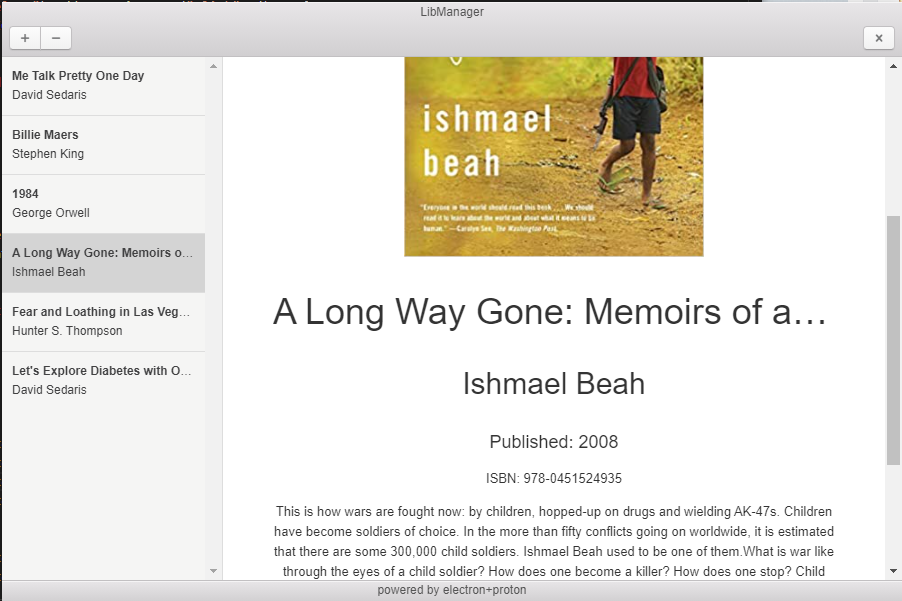
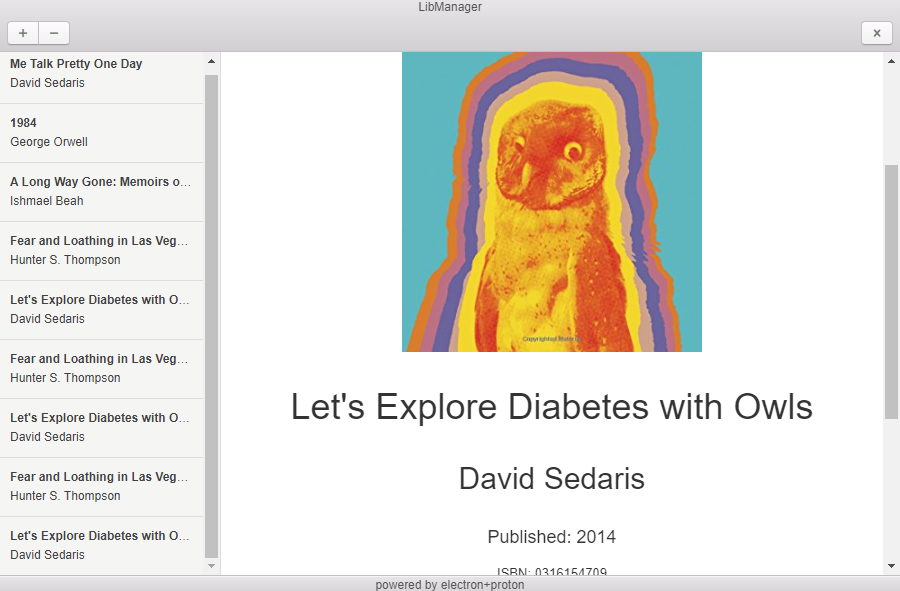
added AddBook logic

diff --git a/app/main.js b/app/main.js
@@ -5,6 +5,7 @@ const { app, BrowserWindow, ipcMain } = require('electron');
 
 
 var win = null;
+var addWin = null;
 
 function createWindow () {
   win = new BrowserWindow({
@@ -27,12 +28,15 @@ function createWindow () {
 
 app.whenReady().then(() => {
   createWindow();
+  
 })
 
 
 app.on('window-all-closed', function () {
   if (process.platform !== 'darwin') app.quit();
 });
+
+
 
 ipcMain.handle("getData", async (event, args) => {
   let data = JSON.parse(fs.readFileSync(path.join(__dirname, 'data.json'),'utf8'));
@@ -58,3 +62,49 @@ ipcMain.handle("delete", async (event, id) => {
 function saveData(data) {
   fs.writeFileSync(path.join(__dirname, 'data.json'), JSON.stringify(data));
 }
+
+
+
+
+
+
+
+
+ipcMain.handle("addWindow", async (event, args) => {
+  addWin = new BrowserWindow({
+    width: 400,
+    height: 700,
+    autoHideMenuBar: true,
+    resizable: false,
+    frame: false,
+    contextIsolation: true,
+    enableRemoteModule: false,
+    nodeIntegration: false,
+    webPreferences: {
+      preload: path.join(__dirname, 'add_preload.js'),
+
+    }
+  });
+  addWin.loadFile(path.join(__dirname, 'add.html'));
+
+  addWin.on('closed', () => {
+    console.log("closing");
+    addWin = null;
+  });
+
+  ipcMain.handle("addBook", async (event, book) => {
+    console.log(book);
+    let books = JSON.parse(fs.readFileSync(path.join(__dirname, 'data.json'),'utf8'));
+    books.push(book);
+    saveData(books);
+    console.log("closing");
+    addWin.close();
+    addWin = null;
+  });
+  ipcMain.handle("exitBook", async (event, args) => {
+    console.log("closing");
+    addWin.destroy();
+    addWin = null;
+  });
+
+});

diff --git a/app/add.html b/app/add.html
@@ -26,23 +26,23 @@
         <form class="libmanager-form">
           <div class="form-group">
             <label>Name</label>
-            <input type="text" class="form-control" placeholder="...">
+            <input type="text" class="form-control" placeholder="..." id="name">
           </div>
           <div class="form-group">
             <label>Author</label>
-            <input type="text" class="form-control" placeholder="...">
+            <input type="text" class="form-control" placeholder="..." id="author">
           </div>
           <div class="form-group">
             <label>Publishing Date</label>
-            <input type="text" class="form-control" placeholder="...">
+            <input type="text" class="form-control" placeholder="..." id="date">
           </div>
           <div class="form-group">
             <label>ISBN</label>
-            <input type="text" class="form-control" placeholder="...">
+            <input type="text" class="form-control" placeholder="..." id="ISBN">
           </div>
           <div class="form-group">
             <label>Description</label>
-            <textarea class="form-control" rows="7"></textarea>
+            <textarea class="form-control" rows="7" id="description"></textarea>
           </div>
           <div class="form-actions">
             <button type="submit" class="btn btn-form btn-default" id="cancel">Cancel</button>
@@ -56,5 +56,5 @@
     </div>
   </body>
   <!-- Javascript -->
-  <script src="./renderer2.js" charset="utf-8"></script>
+  <script src="./add_renderer.js" charset="utf-8"></script>
 </html>

diff --git a/app/add_renderer.js b/app/add_renderer.js
@@ -1,0 +1,30 @@
+
+
+
+var name        = document.getElementById("name");
+var date        = document.getElementById("date");
+var ISBN        = document.getElementById("ISBN");
+var author      = document.getElementById("author");
+var description = document.getElementById("description");
+
+
+window.onload = () => {
+  document.getElementById("finish").addEventListener("click", () => {
+    var book = {
+      cover: '5.jpg',
+      name: name.value,
+      date: date.value,
+      ISBN: ISBN.value,
+      author: author.value,
+      description: description.value
+    }
+    window.addApi.addBookApi(book);
+  });
+  document.getElementById("cancel").addEventListener("click", () => {
+    window.addApi.exitBookApi();
+  });
+  document.getElementById("exit").addEventListener("click", () => {
+    window.addApi.exitBookApi();
+  });
+};
+

diff --git a/app/renderer.js b/app/renderer.js
@@ -10,6 +10,7 @@ window.onload = () => {
     updateBookList();
   });
   document.getElementById("add").addEventListener("click", () => {
+    window.api.addBookWindow();
   })
   updateBookList()
 };
@@ -74,6 +75,7 @@ function previewBook(id, selected) {
   document.getElementById("ISBN").innerHTML        = "ISBN: ".concat(book.ISBN);
   document.getElementById("author").innerHTML      = book.author;
   document.getElementById("description").innerHTML = book.description;
+  updateBookList();
 }
 
 function getBook(books, id) {

diff --git a/app/preload.js b/app/preload.js
@@ -6,6 +6,7 @@ contextBridge.exposeInMainWorld("api", {
   saveDataAPI: (data) => ipcRenderer.invoke("saveData", data),
   exitAPI: (args) => ipcRenderer.invoke("exit", args),
   deleteAPI: (id) => ipcRenderer.invoke("delete", id),
+  addBookWindow: (id) => ipcRenderer.invoke("addWindow", id),
 });
 
 window.addEventListener('DOMContentLoaded', () => {

diff --git a/app/add_preload.js b/app/add_preload.js
@@ -1,0 +1,8 @@
+const { contextBridge, ipcRenderer, BrowserWindow } = require('electron');
+
+
+contextBridge.exposeInMainWorld("addApi", {
+  addBookApi: (book) => ipcRenderer.invoke("addBook", book),
+  exitBookApi: (args) => ipcRenderer.invoke("exitBook", args),
+
+});

diff --git a/app/assets/css/style.css b/app/assets/css/style.css
@@ -18,5 +18,8 @@
   width: 300px;
 }
 .libmanager-form {
-  margin: 0 auto 0 auto;
+  margin: 20px auto 0 auto;
+}
+input {
+  cursor: pointer;
 }

diff --git a/README.md b/README.md
@@ -2,12 +2,20 @@
 
 Electron based GUI App for Library Management.
 
-### 
+### Description
+This app allows users to add/delete books.
+It consists of two windows. Data is saved as JSON.
 
 #### GUI 
 <p align="center">
   <img src="./img/gui.png" width="500">
 </p>
 
+<p align="center">
+  <img src="./img/gui2.png" width="500">
+</p>
+
+#### TODO
+1. add opportunity for users to add covers to the books
 ### License
 MIT
